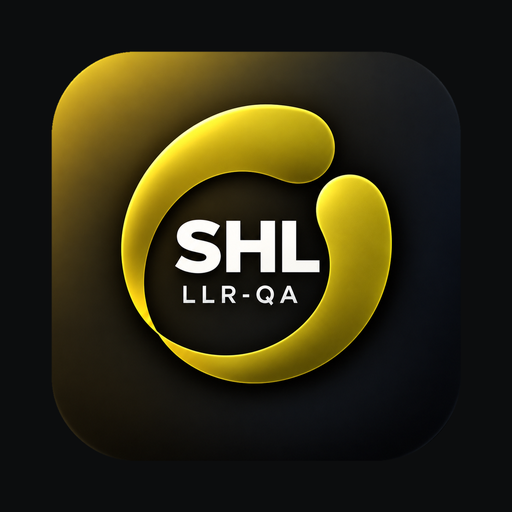
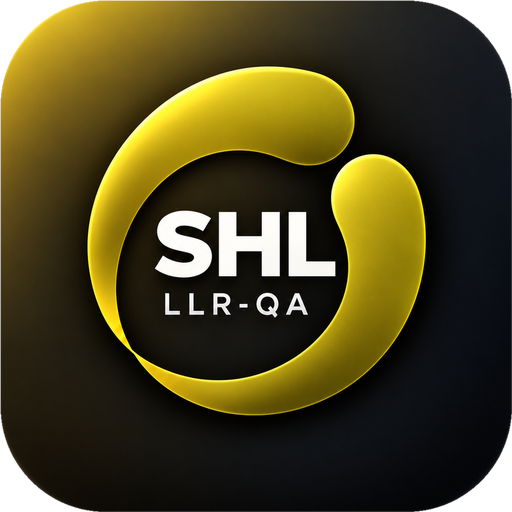
Add files via upload

diff --git a/index.html b/index.html
@@ -3,20 +3,22 @@
 <head>
 <meta charset="UTF-8">
 <meta name="viewport" content="width=device-width, initial-scale=1.0, viewport-fit=cover">
-<title>SHL QA — Lesson Learned Repository</title>
-<!-- Cross-platform patch v1.0.36: automatic 3D floating treatment for any uploaded branding logo without recoloring -->
+<title>SHL LLR-QA</title>
+<!-- Cross-platform patch v1.0.40 FINAL: embedded new download-page icon + forced iOS/PWA SHL LLR-QA name refresh -->
 <!-- v1.0.11: mobile/web login viewport + keyboard responsiveness fix -->
 <!-- v1.0.7: card view shows both uploaded photos side-by-side -->
 
 <!-- PWA: installable on Android & iOS -->
-<link rel="manifest" href="manifest-v1.0.11.json">
+<link rel="manifest" href="manifest-v1.0.40.json?v=1.0.40">
 <meta name="theme-color" content="#b8863b">
 <meta name="mobile-web-app-capable" content="yes">
 <meta name="apple-mobile-web-app-capable" content="yes">
 <meta name="apple-mobile-web-app-status-bar-style" content="default">
-<meta name="apple-mobile-web-app-title" content="QA LLR">
-<link rel="apple-touch-icon" sizes="180x180" href="icon-180-apple.png">
-<link rel="icon" href="icon-192.png">
+<meta name="apple-mobile-web-app-title" content="SHL LLR-QA">
+<meta name="application-name" content="SHL LLR-QA">
+<meta name="mobile-web-app-capable" content="yes">
+<link rel="apple-touch-icon" sizes="180x180" href="icon-180-apple.png?v=1.0.40">
+<link rel="icon" href="icon-192.png?v=1.0.40">
 
 <script src="https://cdnjs.cloudflare.com/ajax/libs/xlsx/0.18.5/xlsx.full.min.js"></script>
 <!-- Firebase (cloud sync so every teammate sees the same shared data) -->
@@ -2304,7 +2306,7 @@ body.button-rounded .btn{border-radius:9px;}
 <div class="overlay" id="aboutOverlay">
   <div class="modal about-modal" id="aboutModal" style="max-width:720px;">
     <div class="modal-header">
-      <h2>ℹ About SHL QA LLR</h2>
+      <h2>ℹ About SHL LLR-QA</h2>
       <button class="close-btn" id="closeAbout">&times;</button>
     </div>
     <div class="modal-body">
@@ -2312,7 +2314,7 @@ body.button-rounded .btn{border-radius:9px;}
         <div class="about-section"><h3>About the App</h3><p id="aboutAppText"></p></div>
         <div class="about-section"><h3>Mission</h3><p id="aboutMissionText"></p></div>
         <div class="about-section"><h3>Vision</h3><p id="aboutVisionText"></p></div>
-        <div class="about-meta">SHL QA — Lesson Learned Repository<br>Shanta Holdings Limited · Setting Standards</div>
+        <div class="about-meta">SHL LLR-QA — Lesson Learned Repository<br>Shanta Holdings Limited · Setting Standards</div>
       </div>
       <div class="about-edit admin-only" id="aboutEdit">
         <div class="field"><label>About the App</label><textarea id="aboutAppInput" style="min-height:120px" placeholder="Describe the purpose and scope of this app..."></textarea></div>
@@ -2354,7 +2356,7 @@ const LOCAL_KEY = 'shl_lesson_learned_repo_v2';
 const SETTINGS_KEY = 'shl_lesson_learned_settings_v2';
 let lessons = []; // secure mode: repository data is loaded only after authenticated access
 const DEFAULT_ABOUT = {
-  appOverview: 'SHL QA — Lesson Learned Repository is an internal knowledge platform for capturing, reviewing and sharing practical QA/QC lessons, good practices and recurring construction issues so teams can learn from past experience and improve future execution.',
+  appOverview: 'SHL LLR-QA — Lesson Learned Repository is an internal knowledge platform for capturing, reviewing and sharing practical QA/QC lessons, good practices and recurring construction issues so teams can learn from past experience and improve future execution.',
   mission: 'To capture practical construction lessons, standardize QA/QC knowledge, support better technical decisions and reduce recurrence of avoidable quality issues through shared learning.',
   vision: 'To build a strong culture of continuous learning and quality excellence where proven lessons are easy to access, reuse and convert into better standards across Shanta Holdings Limited.'
 };

diff --git a/sw.js b/sw.js
@@ -1,8 +1,10 @@
-const CACHE = 'shl-qa-llr-shell-v1.0.36-logo-3d';
+const CACHE = 'shl-llr-qa-shell-v1.0.40-final';
 const SHELL = [
   './',
   './index.html',
   './manifest-v1.0.11.json',
+  './manifest-v1.0.39.json',
+  './manifest-v1.0.40.json',
   './icon-180-apple.png',
   './icon-192-v1.0.11.png',
   './icon-512-v1.0.11.png'
